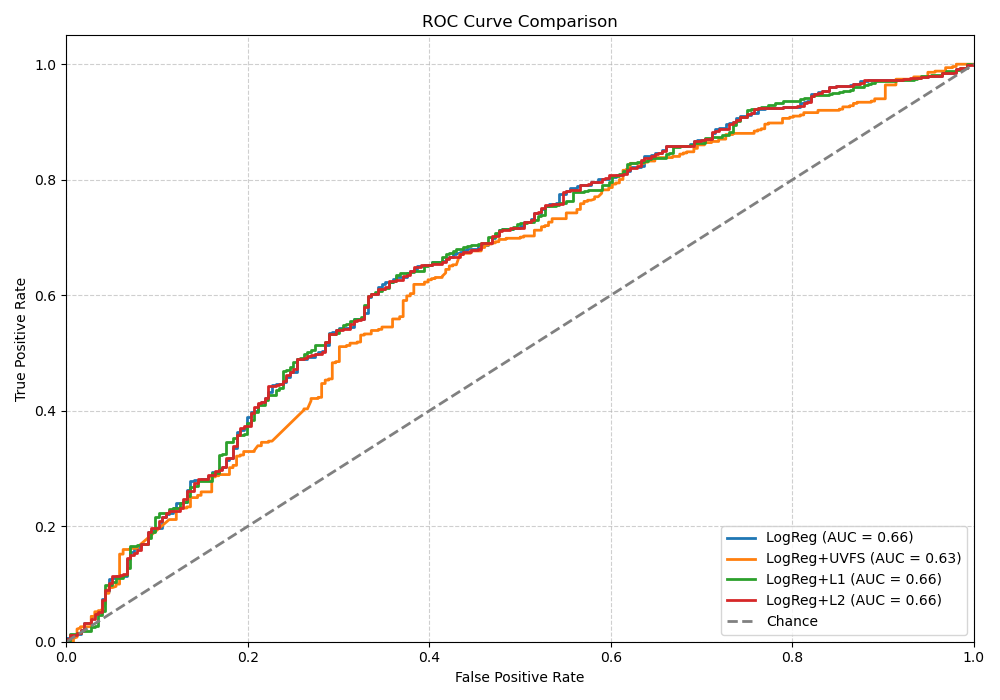
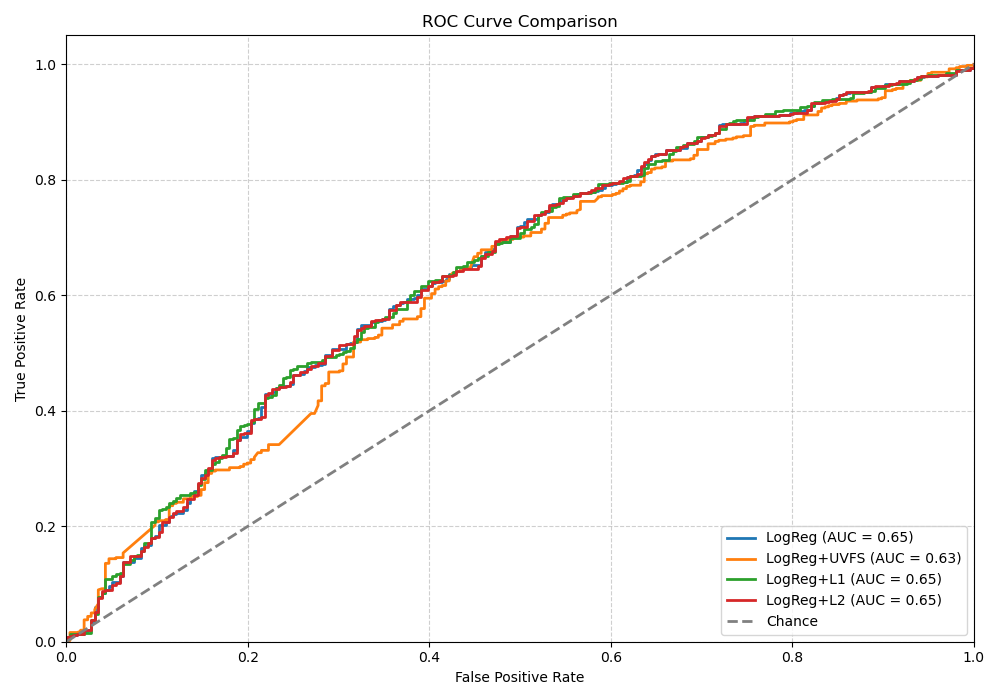
-

Changed region(s): [[0.062, 0.09, 0.992, 0.93]]

diff --git a/Logistic_Regression.py b/Logistic_Regression.py
@@ -23,7 +23,7 @@ import os
 data[cat_features] = data[cat_features].astype('category')
 
 
-#ONE HOT ENCODING
+######################## ONE HOT ENCODING ##############################################################################
 features_encoded = pd.get_dummies(data[features], columns=cat_features, drop_first=True)
 cat_features_encoded = [col for col in features_encoded.columns if any(orig in col for orig in cat_features)]
 
@@ -39,12 +39,12 @@ if current_year == "all":
 
 
 
-#SPLITTIING DATA
+####################### SPLITTING DATA ################################################################################
 X_train, X_test, y_train, y_test = train_test_split(
     X, y, test_size=0.2, random_state=10, stratify= stratify_col)  #for all years also stratify years
 
 
-#HANDLING MISSING DATA
+####################### HANDLING MISSING DATA #########################################################################
 
 #Filling Categorical Columns
 for n in cat_features_encoded:
@@ -59,13 +59,13 @@ for j in X_train[num_features]:  # To ensure consistency with X_train's mean
     X_test[j] = X_test[j].fillna(X_train[j].mean())
 
 
-#SCALING (after splitting!!)
+##################### SCALING (after splitting!!) ######################################################################
 sc = StandardScaler()
 X_train[num_features] = sc.fit_transform(X_train[num_features])
 X_test[num_features]  = sc.transform(X_test[num_features])
 
 
-#EVALUATION
+##################### EVALUATION METRICS ###############################################################################
 def eval_Performance(y_eval, X_eval, clf, clf_name = 'My Classifier'):
 
     y_pred = clf.predict(X_eval)
@@ -88,20 +88,20 @@ df_performance = pd.DataFrame(columns = ['tp','fp','tn','fn','accuracy', 'precis
 
 
 
-#MODEL TRAINING
+##################### MODEL TRAINING ##################################################################################
 clf_LR = LogisticRegression(random_state=10, class_weight='balanced')
 clf_LR.fit(X_train, y_train)
 
 df_performance.loc['LR (test)',:] = eval_Performance(y_test, X_test, clf_LR, clf_name ='LR')
 df_performance.loc['LR (train)',:] = eval_Performance(y_train, X_train, clf_LR, clf_name ='LR (train)')
 
-print("Total number of featuresj (LR):", X_train.shape[1])
+print("Total number of features (LR):", X_train.shape[1])
 
 
-#FEATURE SELECTION
+##################### FEATURE SELECTION ###############################################################################
 
 #Univariate FS
-UVFS_Selector = SelectKBest(score_func = f_classif, k=30)
+UVFS_Selector = SelectKBest(score_func = f_classif, k=20)
 
 X_UVFS = UVFS_Selector.fit_transform(X_train, y_train)
 X_UVFS_test = UVFS_Selector.transform(X_test)
@@ -246,7 +246,7 @@ print(df_performance)
 
 
 
-############### PLOTS #########################
+##################################### PLOTS ############################################################################
 os.makedirs('output', exist_ok=True)
 
 #Accuracy

diff --git a/Data_Preparation.py b/Data_Preparation.py
@@ -8,7 +8,7 @@ from sklearn.impute import KNNImputer
 
 df = pd.read_csv("data/kzp-2008-2020-timeseries.csv", encoding="latin-1")
 
-#DATA OVERVIEW
+####################### DATA OVERVIEW ###########################################################################
 print('Shape of initial data set: ', df.shape)
 print('Data types;', df.dtypes.unique())
 
@@ -48,6 +48,10 @@ features.remove("Inst")
 #Dropping Ort
 data = data.drop(columns=["Ort"])
 features.remove("Ort")
+
+#Dropping SA !!!!!!!!!!!!!!!!!!!!!!!!!!!!!!!!!!!!!!!!!!
+data = data.drop(columns=["SA"])
+features.remove("SA")
 
 #Dropping Columns with 100% Missing Data
 #columns to drop
